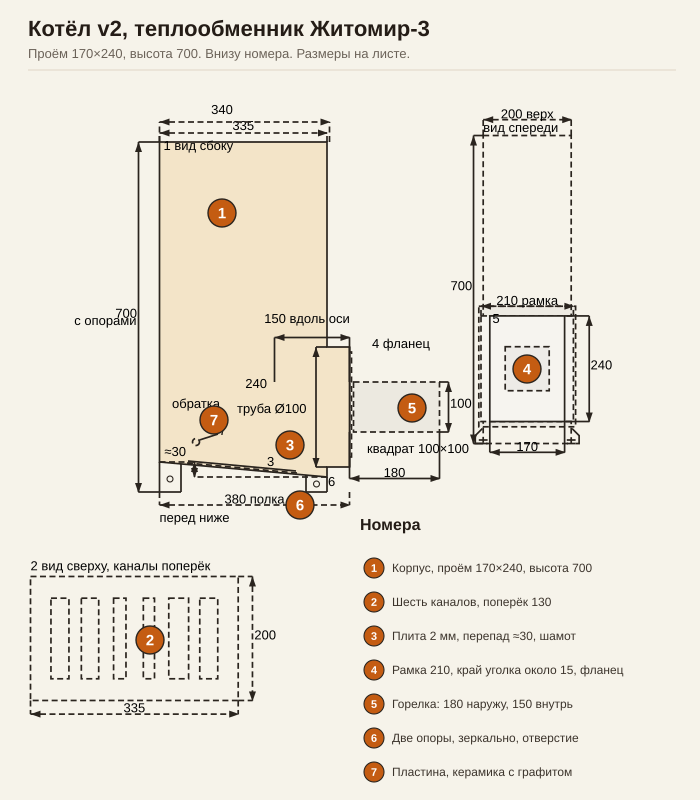
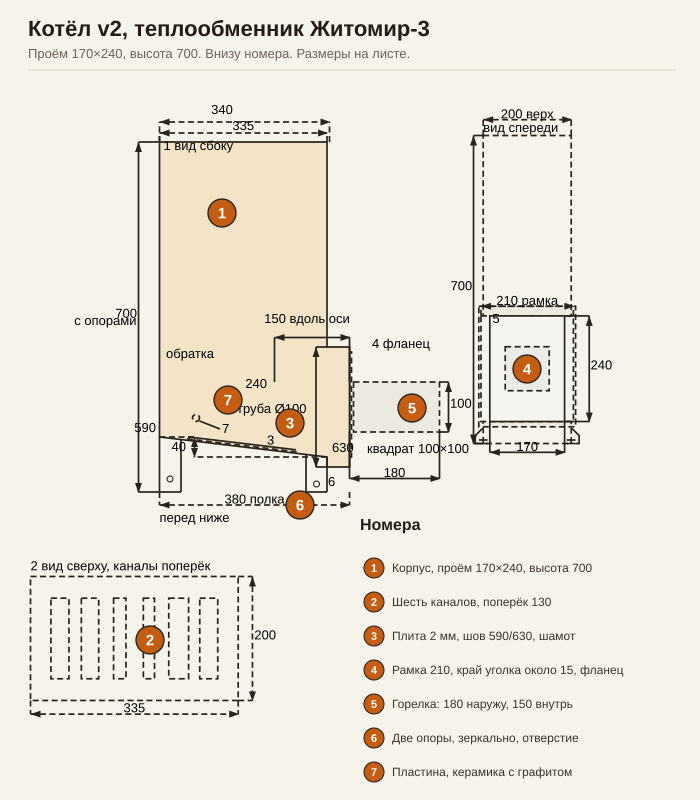
Котёл v2: шов плиты 590 сзади и 630 спереди.
Перепад 40 мм, перед ниже. Общая высота 700 и кромки каналов без изменений.

diff --git a/blueprints/burner/README.md b/blueprints/burner/README.md
@@ -105,7 +105,7 @@
 
 ![Котёл v2](./котел-v2-эскиз.svg)
 
-Проём в свету **170×240** мм. Общая высота **700** мм. Верх **335×200** мм, наружная рамка **210** мм, глубина **340** мм до внутренней кромки и **380** мм до наружной полки. Низ — плита **2 мм**: задний изгиб у входа холодной воды, перед ниже. Перепад около **30 мм** — прежняя оценка со слов, с рулетки не снят. Боковины приварены к рубашке. Рама — уголок **25 мм**, полки наружу. От края уголков до теплообменника около **15 мм**. Фланец горелки прижат к рамке.
+Проём в свету **170×240** мм. Общая высота **700** мм. Верх **335×200** мм, наружная рамка **210** мм, глубина **340** мм до внутренней кромки и **380** мм до наружной полки. Низ — плита **2 мм**: задний изгиб у входа холодной воды. От верха до шва плиты сзади **590** мм, спереди **630** мм, перед ниже на **40** мм. Боковины приварены к рубашке. Рама — уголок **25 мм**, полки наружу. От края уголков до теплообменника около **15 мм**. Фланец горелки прижат к рамке.
 
 Сверху шесть прямоугольных каналов, длинной стороной поперёк. Вдоль верха от ближнего края кромки проёмов **33–62**, **82–110**, **134–154**, **182–200**, **223–255** и **273–302** мм. Поперёк проём **130** мм.
 
@@ -340,7 +340,7 @@
 Тот же котёл, что в разделе [Котёл v2](#котёл-v2). Донор — Житомир-3 КС-Г-015.
 
 - [x] Донор Житомир-3 КС-Г-015 куплен (22.10.2026)
-- [x] Крышка 2 мм: задний изгиб у обратки, перед ниже. Перепад около 30 мм — прежняя оценка со слов. Боковины приварены
+- [x] Крышка 2 мм: задний изгиб у обратки. От верха до шва сзади 590 мм, спереди 630 мм, перед ниже на 40 мм. Боковины приварены
 - [x] Рама проёма: уголок 25 мм, в свету 170×240
 - [x] От края уголков до теплообменника около 15 мм. Фланец к рамке прижат
 - [x] Низ и зад усилены уголком 25 мм

diff --git a/todo.md b/todo.md
@@ -22,7 +22,7 @@
 - [ ] **Котёл из кеги 30 л** (жаровой стакан Ø200, задник ~5 мм, козырёк у дымохода)
 - [ ] **[Котёл v2](blueprints/burner/README.md#котёл-v2)**, Житомир-3 КС-Г-015
   - [x] Купить донора (22.10.2026)
-  - [x] Крышка 2 мм: задний изгиб к низу воды у обратки, перед ниже. Перепад около 30 мм — прежняя оценка со слов. Боковины приварены. Проём 170×240 из уголка 25, низ и зад усилены
+  - [x] Крышка 2 мм: задний изгиб к низу воды у обратки. От верха до шва сзади 590 мм, спереди 630 мм, перед ниже на 40 мм. Боковины приварены. Проём 170×240 из уголка 25, низ и зад усилены
   - [x] Край уголков до теплообменника около 15 мм. Фланец к рамке прижат
   - [x] Передний проём в свету B = 170 мм, H = 240 мм. Общая высота 700 мм с опорами
   - [x] Две опоры, вторая зеркальна первой. Сбоку верх в теплообменник, спереди и сзади короткая подошва и срез. Отверстие без размера
